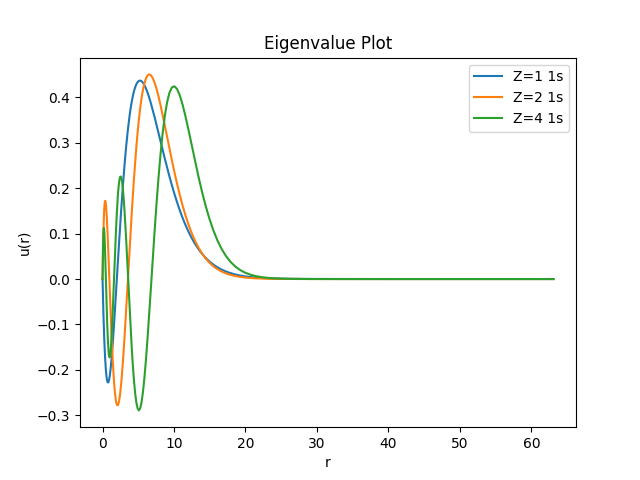
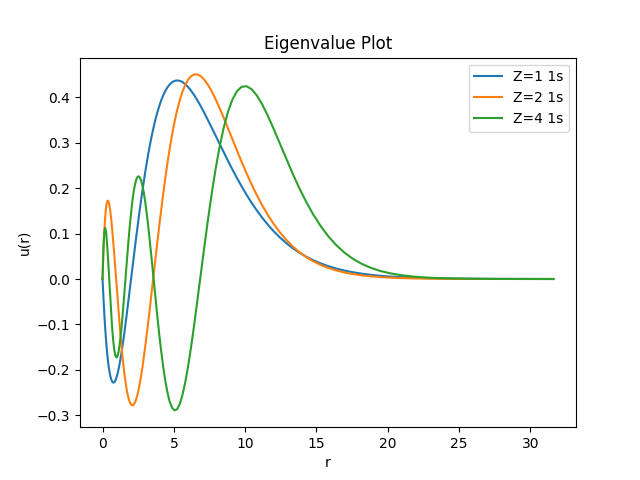
.

diff --git a/Schrodingerequation/HydrogenShooting/hydrogenatomwtshootingZvar.py b/Schrodingerequation/HydrogenShooting/hydrogenatomwtshootingZvar.py
@@ -56,8 +56,8 @@ def FindBoundStates(R, l, nmax, Esearch, Z):
                 break
             n += 1
             print(
-                "Found bound state at E=%14.9f E_exact=%14.9f l=%d n=%d"
-                % (Ebound, -1.0 / (n + l) ** 2, l, n)
+                "Found bound state at E=%14.9f l=%d n=%d"
+                % (Ebound, l, n)
             )
         u0 = u1
 
@@ -70,7 +70,7 @@ fprint("Starting Calculations " + time.asctime() + "\n")
 t0 = time.time()
 Esearch = -1.2 / np.arange(1, 20, 0.2) ** 2
 
-R = np.logspace(-6, 1.8, 500)
+R = np.logspace(-6, 1.5, 500)
 fig, ax = plt.subplots()  # Create a figure and an axes.
 ax.set_xlabel("r")  # Add an x-label to the axes.
 ax.set_ylabel("u(r)")  # Add a y-label to the axes.
